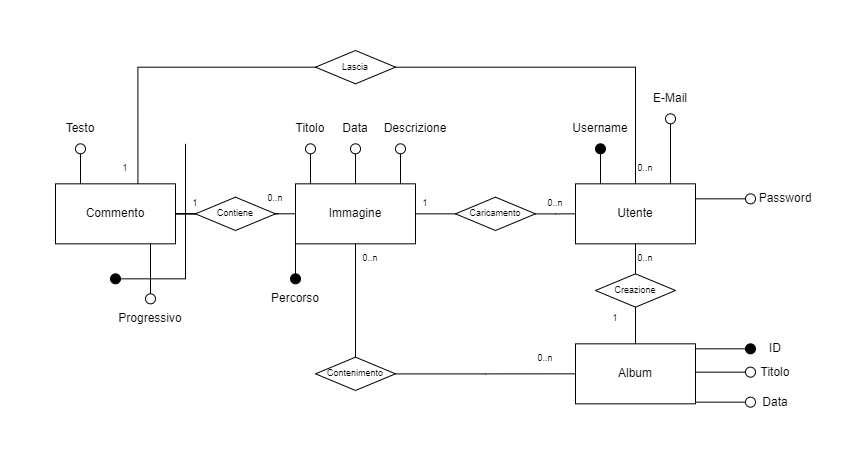
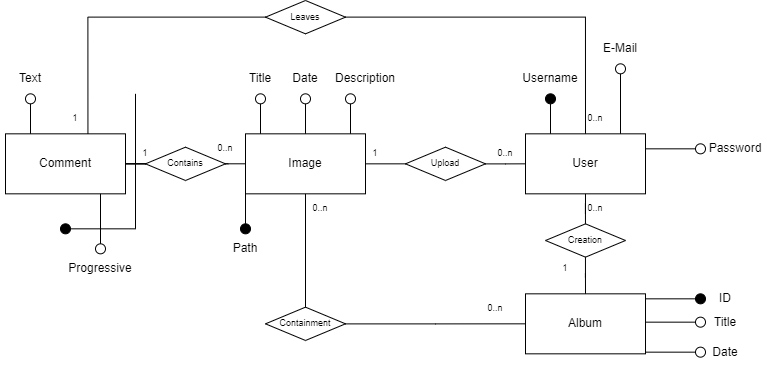
tradotto schema E/R, aggiunti gli altri DAO non completi

diff --git a/GalleriaImmagini/src/main/java/it/polimi/tiw/dao/UserDAO.java b/GalleriaImmagini/src/main/java/it/polimi/tiw/dao/UserDAO.java
@@ -1,6 +1,8 @@
 package it.polimi.tiw.dao;
 
 import java.sql.Connection;
+import java.sql.PreparedStatement;
+import java.sql.SQLException;
 
 public class UserDAO {
 
@@ -10,6 +12,22 @@ public class UserDAO {
 		this.connection = connection;
 	}
 	
+	public int createUser(String username, String email, String password) throws SQLException{
+		// We need to create the database first, these names might change
+		String query = "INSERT into User (username, email, password) values (?, ?, ?)";
+		int code = 0;
+		PreparedStatement preparedStatement = null;
+		try {
+			preparedStatement = connection.prepareStatement(query);
+			preparedStatement.setString(1, username);
+			preparedStatement.setString(2, email);
+			preparedStatement.setString(3, password);
+			code = preparedStatement.executeUpdate();
+		}
+		catch (SQLException e) {
+			throw new SQLException();
+		}
+	}
 	
 
 }

diff --git a/GalleriaImmagini/src/main/java/it/polimi/tiw/test/ConnectionTester.java b/GalleriaImmagini/src/main/java/it/polimi/tiw/test/ConnectionTester.java
@@ -16,12 +16,13 @@ public class ConnectionTester extends HttpServlet {
 			throws ServletException, IOException {
 		final String DB_URL = "jdbc:mysql://localhost:3306/dbtest?serverTimezone=UTC";
 		final String USER = "root";
-		final String PASS = "C0ntinu@zione";
+		final String PASS_greg = "C0ntinu@zione";
+		final String PASS_dani = "$nnH68bmJ4X4r*EXMR";
 		
 		String result = "Connection worked";
 		try {
 			Class.forName("com.mysql.cj.jdbc.Driver");
-			DriverManager.getConnection(DB_URL, USER, PASS);
+			DriverManager.getConnection(DB_URL, USER, PASS_dani);
 		} catch (Exception e) {
 			result = "Connection failed";
 			e.printStackTrace();

diff --git a/GalleriaImmagini/src/main/java/it/polimi/tiw/dao/CommentDAO.java b/GalleriaImmagini/src/main/java/it/polimi/tiw/dao/CommentDAO.java
@@ -1,0 +1,9 @@
+package it.polimi.tiw.dao;
+
+public class CommentDAO {
+
+	public CommentDAO() {
+		// TODO Auto-generated constructor stub
+	}
+
+}

diff --git a/GalleriaImmagini/src/main/java/it/polimi/tiw/dao/AlbumDAO.java b/GalleriaImmagini/src/main/java/it/polimi/tiw/dao/AlbumDAO.java
@@ -1,0 +1,9 @@
+package it.polimi.tiw.dao;
+
+public class AlbumDAO {
+
+	public AlbumDAO() {
+		// TODO Auto-generated constructor stub
+	}
+
+}

diff --git a/GalleriaImmagini/src/main/java/it/polimi/tiw/dao/ImageDAO.java b/GalleriaImmagini/src/main/java/it/polimi/tiw/dao/ImageDAO.java
@@ -1,0 +1,9 @@
+package it.polimi.tiw.dao;
+
+public class ImageDAO {
+
+	public ImageDAO() {
+		// TODO Auto-generated constructor stub
+	}
+
+}

diff --git a/GalleriaImmagini/src/main/java/it/polimi/tiw/beans/User.java b/GalleriaImmagini/src/main/java/it/polimi/tiw/beans/User.java
@@ -1,0 +1,9 @@
+package it.polimi.tiw.beans;
+
+public class User {
+
+	public User() {
+		// TODO Auto-generated constructor stub
+	}
+
+}
